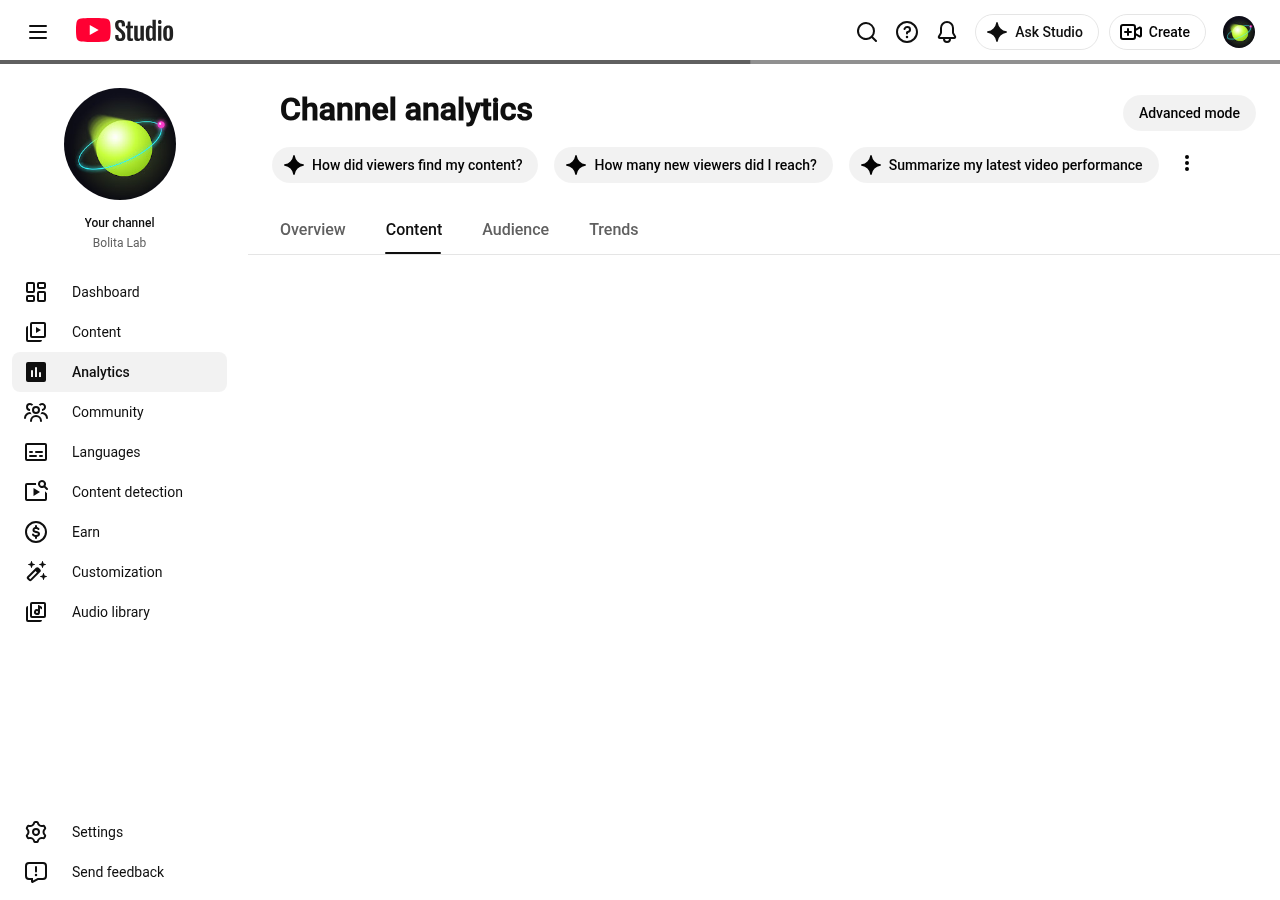
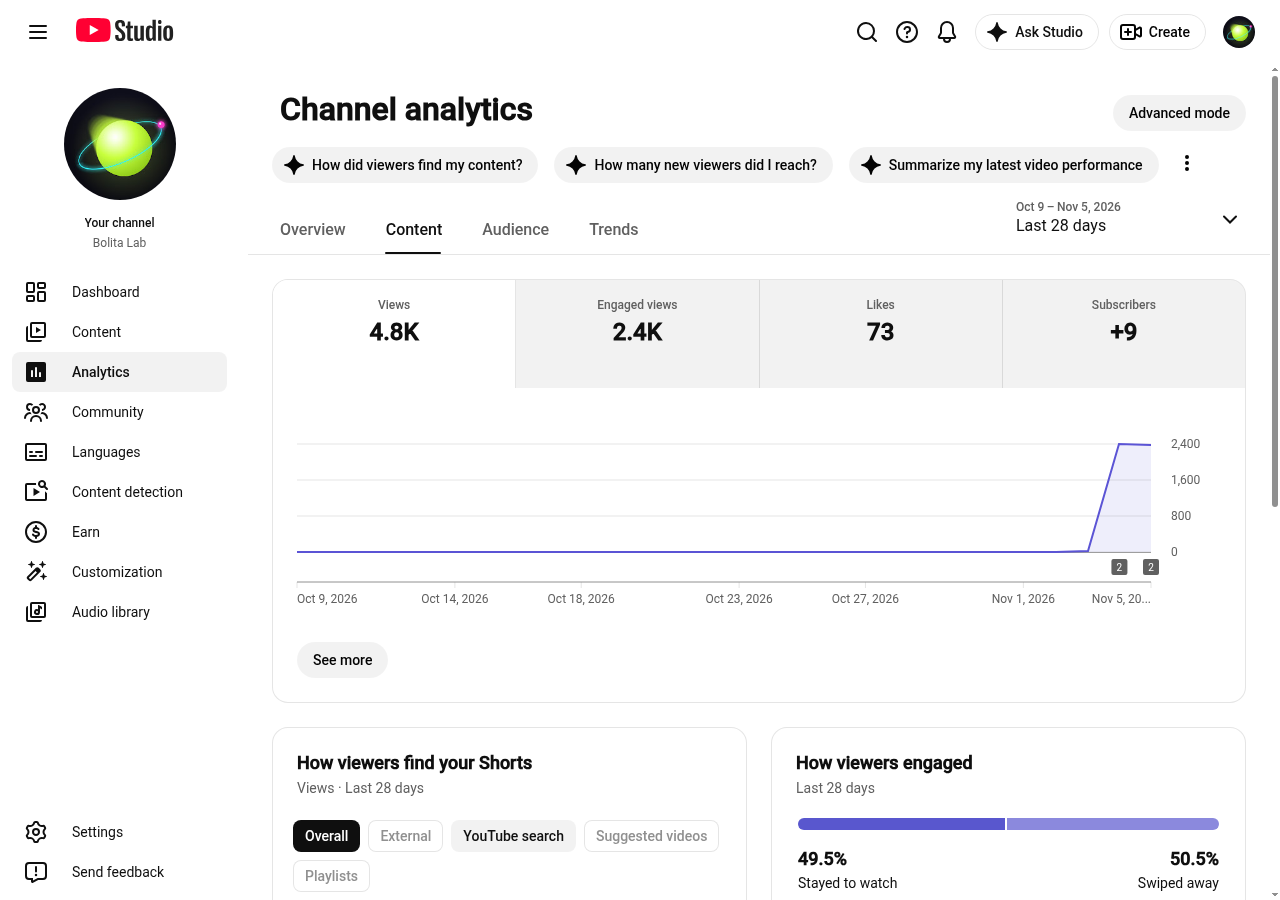
diario 11-07: 3 renders con el CTA (color favorito, 2 bolitas escapa, Canal de Panamá)

diff --git a/salida/bandeja/PARA-SUBIR-A-MANO.md b/salida/bandeja/PARA-SUBIR-A-MANO.md
@@ -1,6 +1,6 @@
 # Videos listos para subir a mano (YouTube Studio)
 
-Generado: 2026-11-06 03:40 (America/Santiago) · 3 Short(s) + 1 video(s) largo(s), en orden de calendario.
+Generado: 2026-11-07 04:01 (America/Santiago) · 3 Short(s) + 1 video(s) largo(s), en orden de calendario.
 
 Cómo: YouTube Studio → **Crear → Subir videos** → elige el archivo indicado. Copia el título y la
 descripción **tal cual** (la descripción ya trae los hashtags al final). En "Público": **No, no es
@@ -11,101 +11,104 @@ Al terminar, marca cada video como subido para que no vuelva a aparecer: en `sal
 cambia `"estado": "listo"` por `"estado": "subido"` y agrega `"publicarEn": "<fecha ISO>"`
 (así el calendario sabe que esa ranura ya está ocupada). Si no lo haces, solo se volverá a listar.
 
-## 1. ¿Pizza, hamburguesa, sushi o tacos? 🍕 ¿Qué comida gana?
+## 1. ¿Qué color gana la carrera? 🎨 El tuyo, ¿llega primero?
 
-- **Archivo:** `/home/santiago/projects/yt/bolita-lab/salida/bandeja/2026-11-06-carrera-pizza-vs-hamburguesa.mp4`
-- **Programar para:** 2026-11-14 12:00 (America/Santiago)
-- **Id:** `2026-11-06-carrera-pizza-vs-hamburguesa` · **Plantilla:** carrera · **Duración:** 00:40 · **Categoría:** Entretenimiento
+- **Archivo:** `/home/santiago/projects/yt/bolita-lab/salida/bandeja/2026-11-07-carrera-que-color-favorito.mp4`
+- **Programar para:** 2026-11-15 18:00 (America/Santiago)
+- **Id:** `2026-11-07-carrera-que-color-favorito` · **Plantilla:** carrera · **Duración:** 00:32 · **Categoría:** Entretenimiento
 
 **Título:**
 ```
-¿Pizza, hamburguesa, sushi o tacos? 🍕 ¿Qué comida gana?
+¿Qué color gana la carrera? 🎨 El tuyo, ¿llega primero?
 ```
 
 **Descripción:**
 ```
-Seis comidas, seis bolitas de neón y una sola ganadora. ¿Tu comida favorita llega primero? Física real y sonido en cada rebote. Defiéndela en los comentarios.
+Seis colores, seis bolitas de neón y un tablero lleno de clavijas. ¿Tu color favorito llega primero? Física real y sonido en cada rebote. Dinos en los comentarios cuál apoyabas.
 
-#shorts #carrera #satisfying #bolitas #fisica #comida #pizza
+#shorts #carrera #satisfying #bolitas #fisica #colores #favorito
 ```
 
 **Hashtags:**
 ```
-#shorts #carrera #satisfying #bolitas #fisica #comida #pizza
+#shorts #carrera #satisfying #bolitas #fisica #colores #favorito
 ```
 
 **Etiquetas** (campo "Etiquetas" de Studio):
 ```
-shorts, carrera, satisfying, bolitas, fisica, comida, pizza
+shorts, carrera, satisfying, bolitas, fisica, colores, favorito
 ```
 
-## 2. ¿En qué rebote escapa la bolita? El lago de los cisnes en neón
+## 2. ¿Cuál de las 2 bolitas escapa por el hueco estrecho? Oda a la Alegría
 
-- **Archivo:** `/home/santiago/projects/yt/bolita-lab/salida/bandeja/2026-11-06-bola-cisnes-escape.mp4`
-- **Programar para:** 2026-11-14 18:00 (America/Santiago)
-- **Id:** `2026-11-06-bola-cisnes-escape` · **Plantilla:** bola · **Duración:** 00:32 · **Categoría:** Entretenimiento
+- **Archivo:** `/home/santiago/projects/yt/bolita-lab/salida/bandeja/2026-11-07-bola-cual-de-las-2-bolitas-escapa.mp4`
+- **Programar para:** 2026-11-16 12:00 (America/Santiago)
+- **Id:** `2026-11-07-bola-cual-de-las-2-bolitas-escapa` · **Plantilla:** bola · **Duración:** 00:29 · **Categoría:** Entretenimiento
 
 **Título:**
 ```
-¿En qué rebote escapa la bolita? El lago de los cisnes en neón
+¿Cuál de las 2 bolitas escapa por el hueco estrecho? Oda a la Alegría
 ```
 
 **Descripción:**
 ```
-Una bolita de neón rebota dentro de un anillo con un hueco que gira. Cada rebote toca la siguiente nota de El lago de los cisnes de Chaikovski. ¿En qué rebote encuentra la salida?
+Dos bolitas de neón rebotan y chocan dentro de un anillo con un hueco muy estrecho que gira. Cada rebote toca una nota de la Oda a la Alegría de Beethoven.
+Solo una logra salir. Apuesta en los comentarios antes de ver el final.
 Simulación física determinista hecha en Bolita Lab.
 
-#shorts #satisfying #fisica #bolita #neon #chaikovski #lagodeloscisnes
+#shorts #satisfying #fisica #bolita #neon #beethoven #odaalaalegria
 ```
 
 **Hashtags:**
 ```
-#shorts #satisfying #fisica #bolita #neon #chaikovski #lagodeloscisnes
+#shorts #satisfying #fisica #bolita #neon #beethoven #odaalaalegria
 ```
 
 **Etiquetas** (campo "Etiquetas" de Studio):
 ```
-shorts, satisfying, fisica, bolita, neon, chaikovski, lagodeloscisnes
+shorts, satisfying, fisica, bolita, neon, beethoven, odaalaalegria
 ```
 
-## 3. El Everest no es la cima más cercana al espacio: es el Chimborazo
+## 3. En el Canal de Panamá vas del Atlántico al Pacífico hacia el este
 
-- **Archivo:** `/home/santiago/projects/yt/bolita-lab/salida/bandeja/2026-11-06-dato-el-everest-no-es-la-cima-mas-cercana-al.mp4`
-- **Programar para:** 2026-11-15 12:00 (America/Santiago)
-- **Id:** `2026-11-06-dato-el-everest-no-es-la-cima-mas-cercana-al` · **Plantilla:** dato · **Duración:** 00:48 · **Categoría:** Ciencia y tecnología
+- **Archivo:** `/home/santiago/projects/yt/bolita-lab/salida/bandeja/2026-11-07-dato-en-el-canal-de-panama-vas-del-atlantico.mp4`
+- **Programar para:** 2026-11-16 18:00 (America/Santiago)
+- **Id:** `2026-11-07-dato-en-el-canal-de-panama-vas-del-atlantico` · **Plantilla:** dato · **Duración:** 00:50 · **Categoría:** Ciencia y tecnología
 
 **Título:**
 ```
-El Everest no es la cima más cercana al espacio: es el Chimborazo
+En el Canal de Panamá vas del Atlántico al Pacífico hacia el este
 ```
 
 **Descripción:**
 ```
-El Everest es la montaña más alta sobre el nivel del mar, pero la Tierra está achatada: en el ecuador el radio mide unos 21 km más que en los polos. Por eso la cima del volcán Chimborazo, en Ecuador, queda unos 2 km más lejos del centro de la Tierra que la del Everest, aunque mide 2.500 m menos.
+El istmo de Panamá corre de oeste a este y se tuerce como una S, así que el canal lo cruza de noroeste a sureste: la salida al Pacífico (Balboa) queda unos 35 km más al este que la entrada del Atlántico (Colón). Y el canal no está al nivel del mar: los barcos suben 26 m por esclusas hasta el lago Gatún y vuelven a bajar.
 
 Fuentes:
-- NOAA National Ocean Service, What is the highest point on Earth as measured from Earth's center?: https://oceanservice.noaa.gov/facts/highestpoint.html
-- NASA Earth Fact Sheet (radio ecuatorial 6.378 km, polar 6.357 km): https://nssdc.gsfc.nasa.gov/planetary/factsheet/earthfact.html
-- Altura oficial del Everest 8.848,86 m (medición conjunta Nepal–China, 2020); Chimborazo 6.263 m
+- Britannica, Panama Canal (recorrido de noroeste a sureste, unos 80 km): https://www.britannica.com/topic/Panama-Canal
+- Autoridad del Canal de Panamá, lago Gatún a 26 m (85 pies) sobre el nivel del mar: https://pancanal.com
+- Cálculo con coordenadas: Colón ≈ 9,36 N 79,90 O; Balboa ≈ 8,95 N 79,57 O → 0,33° de longitud ≈ 36 km hacia el este
 
 Imágenes: Wikimedia Commons
-- Everest North Face toward Base Camp Tibet Luca Galuzzi 2006 · Luca Galuzzi ( Lucag ) · CC BY-SA 2.5 (https://creativecommons.org/licenses/by-sa/2.5) · https://commons.wikimedia.org/wiki/File:Everest_North_Face_toward_Base_Camp_Tibet_Luca_Galuzzi_2006.jpg
-- Everest, Himalayas · Vyacheslav Argenberg · CC BY 4.0 (https://creativecommons.org/licenses/by/4.0) · https://commons.wikimedia.org/wiki/File:Everest,_Himalayas.jpg
-- North America from low orbiting satellite Suomi NPP · NASA/NOAA/GSFC/Suomi NPP/VIIRS/Norman Kuring · Public domain · https://commons.wikimedia.org/wiki/File:North_America_from_low_orbiting_satellite_Suomi_NPP.jpg
-- Vicuña - Chimborazo, Ecuador · Dabit100 / David Torres Costales Riobamba · CC BY-SA 3.0 (https://creativecommons.org/licenses/by-sa/3.0) · https://commons.wikimedia.org/wiki/File:Vicu%C3%B1a_-_Chimborazo,_Ecuador.jpg
-- Life and nature under the tropics- or, Sketches of travels among the Andes, and on the Orinoco, Rio Negro, and Amazons (1871) (14775537844) · Internet Archive Book Images · No restrictions · https://commons.wikimedia.org/wiki/File:Life_and_nature_under_the_tropics-_or,_Sketches_of_travels_among_the_Andes,_and_on_the_Orinoco,_Rio_Negro,_and_Amazons_(1871)_(14775537844).jpg
+- 1914 Panama Canal and Canal Zone map · Syndicate Publishing Company · Public domain · https://commons.wikimedia.org/wiki/File:1914_Panama_Canal_and_Canal_Zone_map.jpg
+- Miraflores Locks Panama 1914 · Gordon Panoramic Photo Co. · Public domain · https://commons.wikimedia.org/wiki/File:Miraflores_Locks_Panama_1914.JPG
+- Satellite image of Panama in March 2003 · Jeff Schmaltz, MODIS Rapid Response Team, NASA/GSFC · Public domain · https://commons.wikimedia.org/wiki/File:Satellite_image_of_Panama_in_March_2003.jpg
+- Panama Provincial Flag Map · TresForBe · CC BY-SA 4.0 (https://creativecommons.org/licenses/by-sa/4.0) · https://commons.wikimedia.org/wiki/File:Panama_Provincial_Flag_Map.png
+- Bradypus · Stefan Laube ( Tauchgurke ) · Public domain · https://commons.wikimedia.org/wiki/File:Bradypus.jpg
+- Panama Canal Gatun Locks opening · User:Stan Shebs · CC BY-SA 3.0 (https://creativecommons.org/licenses/by-sa/3.0) · https://commons.wikimedia.org/wiki/File:Panama_Canal_Gatun_Locks_opening.jpg
+- Graduandos Panameños · Youngiovani · CC BY-SA 3.0 (https://creativecommons.org/licenses/by-sa/3.0) · https://commons.wikimedia.org/wiki/File:Graduandos_Paname%C3%B1os.jpg
 
-#shorts #datos #curiosidades #geografia #everest #ecuador #bolitalab
+#shorts #datos #curiosidades #geografia #panama #mapas #bolitalab
 ```
 
 **Hashtags:**
 ```
-#shorts #datos #curiosidades #geografia #everest #ecuador #bolitalab
+#shorts #datos #curiosidades #geografia #panama #mapas #bolitalab
 ```
 
 **Etiquetas** (campo "Etiquetas" de Studio):
 ```
-shorts, datos, curiosidades, geografia, everest, ecuador, bolitalab
+shorts, datos, curiosidades, geografia, panama, mapas, bolitalab
 ```
 
 ---
